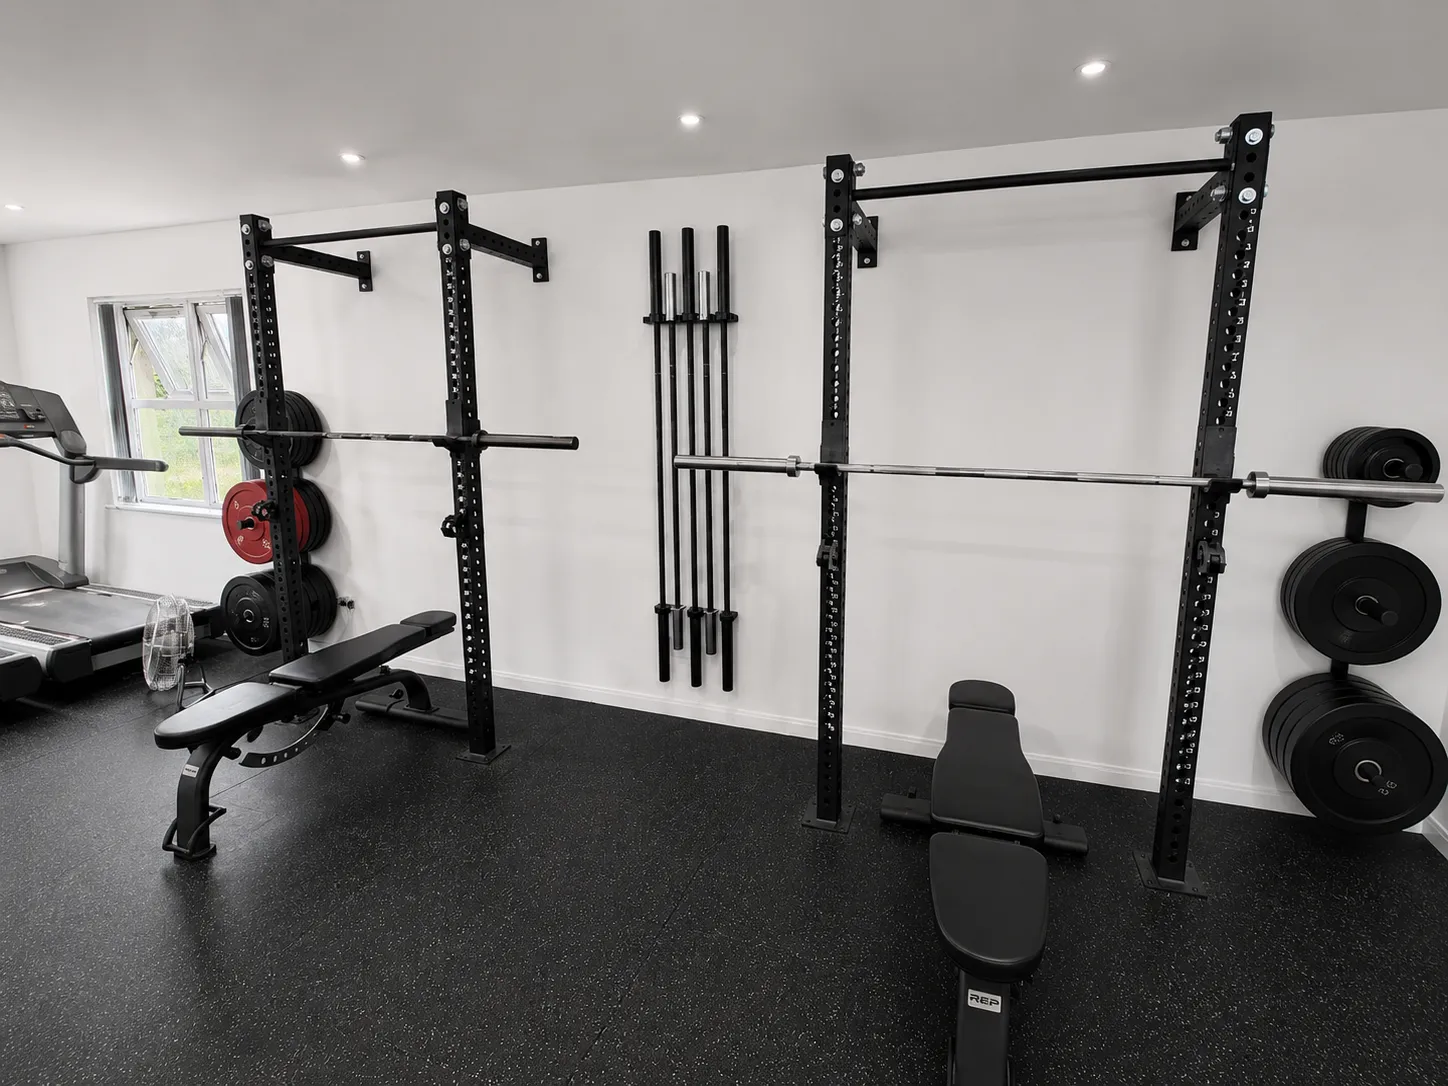
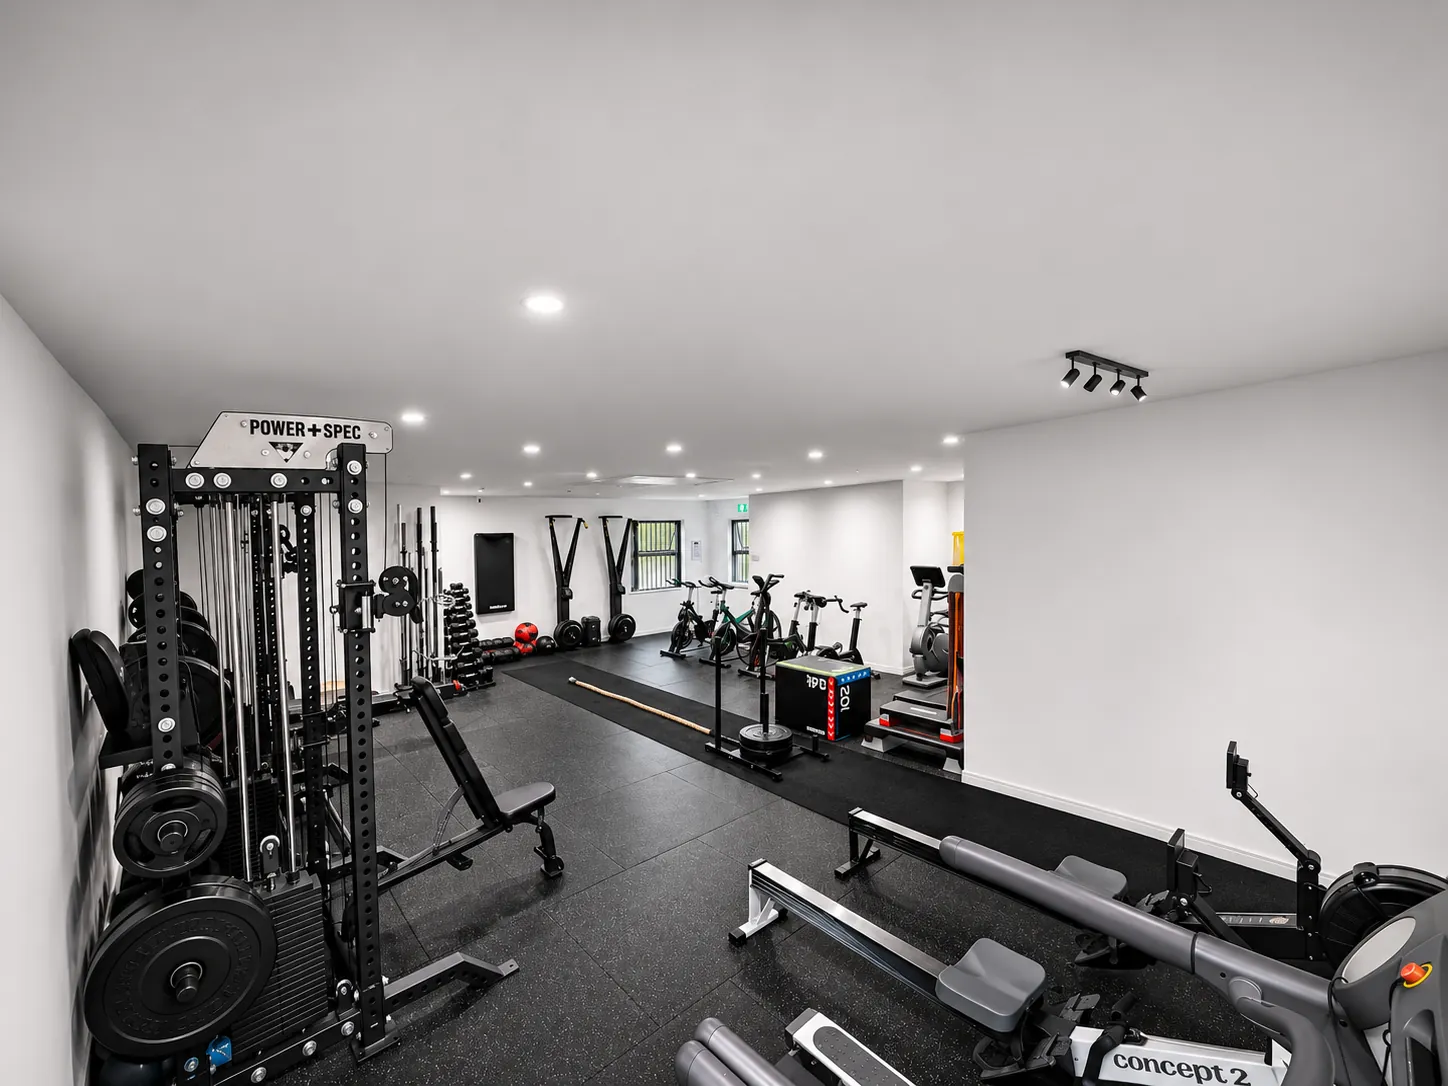
Replace gallery photos 12-13 with six upstairs cardio and classes floor photos
Claude-Session: https://claude.ai/code/session_01XS79Kq2tfYvCoRKuV5YihB

diff --git a/components/GymGallery.tsx b/components/GymGallery.tsx
@@ -20,10 +20,15 @@ const ALL_PHOTOS = [
   { src: "/gym/t-bar.webp",                 alt: "T-bar row",              cap: "10 · T-bar"         },
   // Page 3
   { src: "/gym/triceps.webp",               alt: "Triceps station",        cap: "11 · Triceps"       },
-  { src: "/gym/cardio.webp",                alt: "Cardio area",            cap: "12 · Cardio"        },
-  { src: "/gym/classes.webp",               alt: "Classes",                cap: "13 · Classes"       },
-  { src: "/gym/lateral-raise-machine.webp", alt: "Lateral raise machine",  cap: "14 · Lateral raise" },
-  { src: "/gym/stairs.webp",                alt: "Stairs",                 cap: "15 · Stairs"        },
+  { src: "/gym/classes.webp",               alt: "Upstairs cardio and classes floor with racks, rowers and bikes", cap: "12 · Classes floor" },
+  { src: "/gym/classes-2.webp",             alt: "Upstairs classes floor with spin bikes, air bike and sled track", cap: "13 · Classes floor" },
+  { src: "/gym/cardio.webp",                alt: "Upstairs cardio area with treadmills and rowers", cap: "14 · Cardio" },
+  // Page 4
+  { src: "/gym/racks.webp",                 alt: "Upstairs racks with dumbbells and benches", cap: "15 · Racks" },
+  { src: "/gym/classes-3.webp",             alt: "Upstairs classes floor with sled track and cardio machines", cap: "16 · Classes floor" },
+  { src: "/gym/bikes.webp",                 alt: "Spin bikes on the upstairs cardio and classes floor", cap: "17 · Spin bikes" },
+  { src: "/gym/lateral-raise-machine.webp", alt: "Lateral raise machine",  cap: "18 · Lateral raise" },
+  { src: "/gym/stairs.webp",                alt: "Stairs",                 cap: "19 · Stairs"        },
 ];
 
 const PAGE_SIZE = 5;
